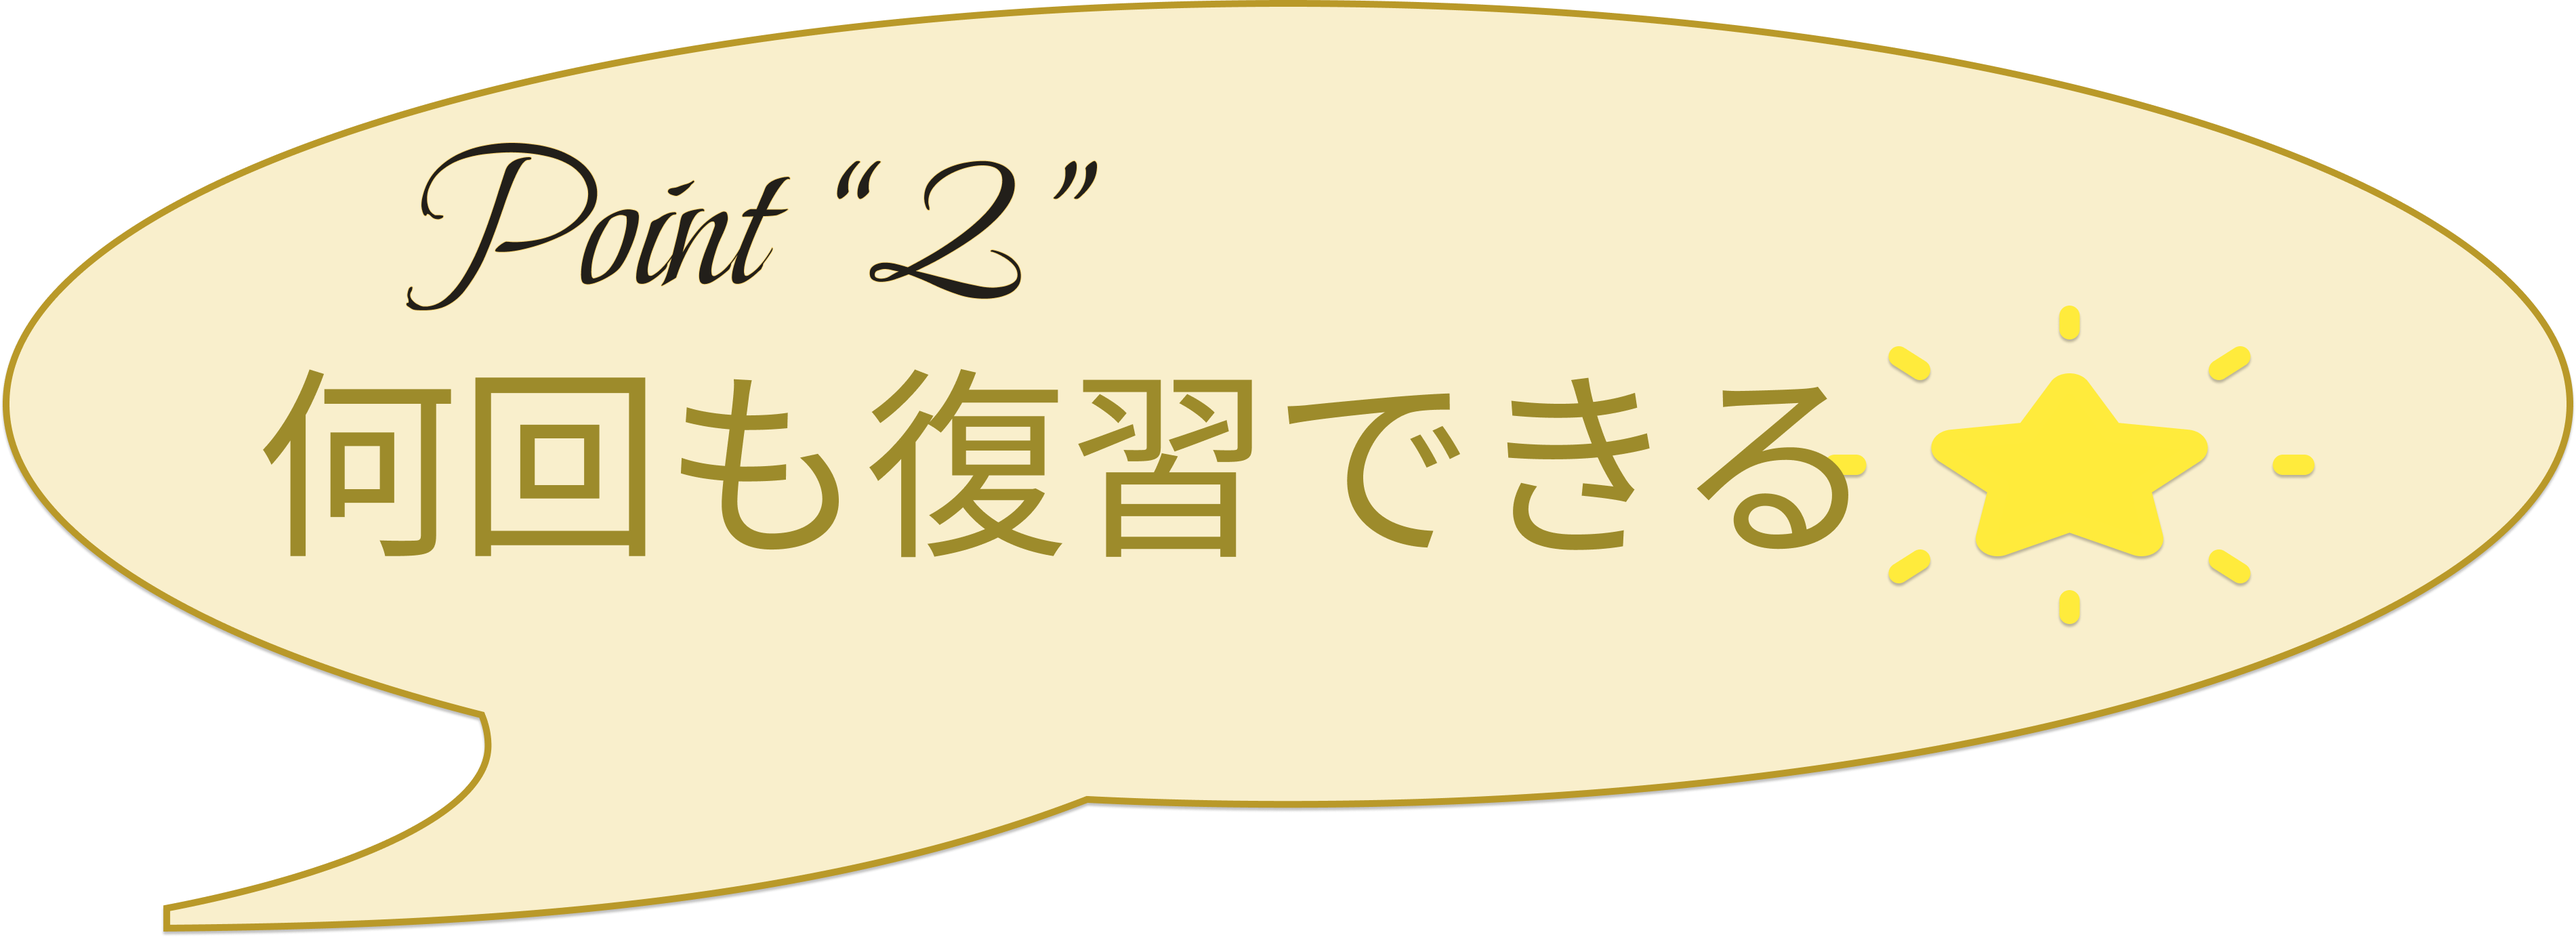
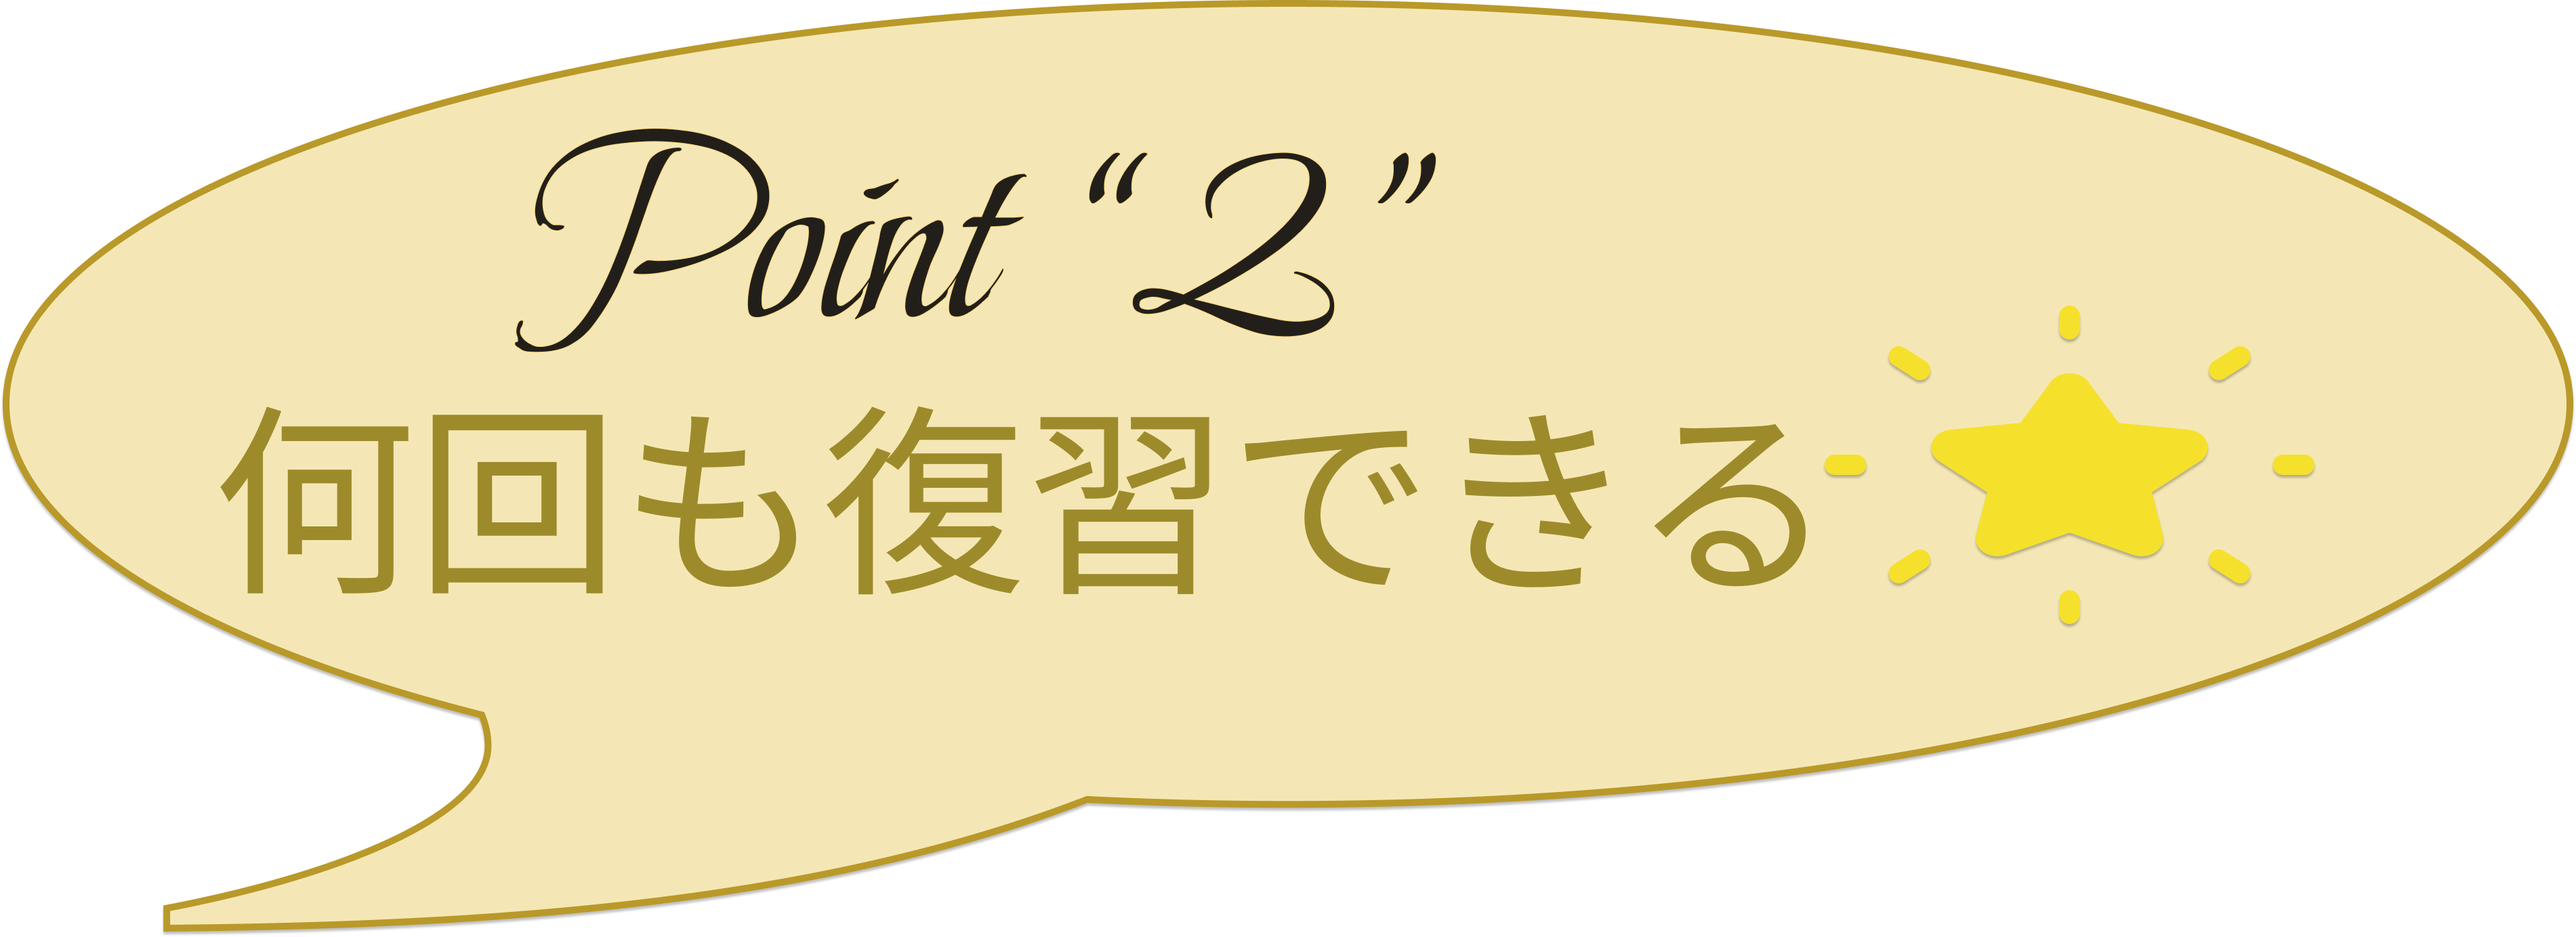
feat: web デザイン完成

diff --git a/index.html b/index.html
@@ -45,11 +45,12 @@
     <noscript><iframe src="https://www.googletagmanager.com/ns.html?id=GTM-57RW4WR" height="0" width="0"
             style="display:none;visibility:hidden"></iframe></noscript>
     <!-- End Google Tag Manager (noscript) -->
-    <section id="s01" class="back01" style="b" class="section">
+    <section id="s01" class="back01" class="section">
 
 
         <div id="main-visual">
-            <h2><span class="colored">言語</span> シリーズ<br><span class="text"></h2>
+            <h2><img src="img/t/language series (2).png" alt="言語シリーズ"><span class="text"></h2>
+                
             <div id="slider">
 
                 <ul id="slides">
@@ -72,45 +73,44 @@
                         alt="apple play"></a></p>
         </div>
     </section>
-    <section id="s01"  class="back02" >
+    <section id="s01" class="back02">
         <div id="main-visual">
-            <h2><span class="colored">Life</span> シリーズ<br><span class="text"></h2>
-            
+            <h2><img src="img/t/Life Hack.png" alt="言語シリーズ"><span class="text"></h2>
+
             <div class="display-app">
-               <h3>LifeHack</h3>
-               <p class="icn" ><img src="img/lifehack/appicon.png" alt="icon"></p>
-               <p class="lead">タスク、日記、読書メモを管理しカレンダーやグラフで振り返ろう！</p>
+                <p class="icn"><img src="img/lifehack/appicon.png" alt="icon"></p>
+                <p class="lead">タスク、日記、読書メモを管理しカレンダーやグラフで振り返ろう！</p>
             </div>
             <div id="slider">
                 <ul id="slides2">
-                    <li><img src="img/hack2/1.png" alt="image01" ></li>
+                    <li><img src="img/hack2/1.png" alt="image01"></li>
                     <li><img src="img/hack2/2.png" alt="image02"></li>
                     <li><img src="img/hack2/3.png" alt="image03"></li>
                     <li><img src="img/hack2/4.png" alt="image03"></li>
                 </ul>
             </div>
             <ol>
-                <li id="b01"><img src="img/baloon_01.png" alt="Point1 見た目がかわいい"></li>
-                <li id="b02"><img src="img/a.png" alt="Point2 毎日使える!"></li>
-                <li id="b03"><img src="img/baloon_03.png" alt="Point3 使い方は自由!"></li>
-                <li id="b04"><img src="img/baloon_04.png" alt="Point4 どれでも無料!"></li>
+                <li id="b01"><img src="img/fukidasi/point2_1.png" alt="Point1 見た目がかわいい"></li>
+                <li id="b02"><img src="img/fukidasi/point2_2.png" alt="Point2 毎日使える!"></li>
+                <li id="b03"><img src="img/fukidasi/point2_3.png" alt="Point3 使い方は自由!"></li>
+                <li id="b04"><img src="img/fukidasi/point2_4.png" alt="Point4 どれでも無料!"></li>
             </ol>
         </div>
-         <div id="btn-download" > 
-        <p class="btn btn-download"><a href="https://goo.gl/OwwrzV" target="_blank"><img src="img/common/apple.svg"
-                    alt="apple play"></a></p>
-    </div>
+        <div id="btn-download">
+            <p class="appicon btn-download"><a href="https://goo.gl/OwwrzV" target="_blank"><img src="img/common/apple.svg"
+                        alt="apple play"></a></p>
+        </div>
     </section>
-   
 
-   <section id="s01" class="back03" >
+
+    <section id="s01" class="back03">
         <div id="main-visual">
-            <h2><span class="colored">Life</span> シリーズ<br><span class="text"></h2>
-            
+            <h2><img src="img/t/Life Mind.png" alt="言語シリーズ"><span class="text"></h2>
+
+
             <div class="display-app">
-               <h3>LifeMind</h3>
-               <p class="icn" ><img src="img/lifemind/appicon.png" alt="icon"></p>
-               <p class="lead">タスク、日記、読書メモを管理しカレンダーやグラフで振り返ろう！</p>
+                <p class="icn"><img src="img/lifemind/appicon.png" alt="icon"></p>
+                <p class="lead">タスク、日記、読書メモを管理しカレンダーやグラフで振り返ろう！</p>
             </div>
             <div id="slider">
                 <ul id="slides3">
@@ -121,21 +121,21 @@
                 </ul>
             </div>
             <ol>
-                <li id="b01"><img src="img/baloon_01.png" alt="Point1 見た目がかわいい"></li>
-                <li id="b02"><img src="img/a.png" alt="Point2 毎日使える!"></li>
-                <li id="b03"><img src="img/baloon_03.png" alt="Point3 使い方は自由!"></li>
-                <li id="b04"><img src="img/baloon_04.png" alt="Point4 どれでも無料!"></li>
+                <li id="b01"><img src="img/fukidasi/point3_1.png" alt="Point1 見た目がかわいい"></li>
+                <li id="b02"><img src="img/fukidasi/point3_2.png" alt="Point2 毎日使える!"></li>
+                <li id="b03"><img src="img/fukidasi/point3_3.png" alt="Point3 使い方は自由!"></li>
+                <li id="b04"><img src="img/fukidasi/point3_4.png" alt="Point4 どれでも無料!"></li>
             </ol>
         </div>
-         <div id="btn-download" > 
-        <p class="btn btn-download"><a href="https://goo.gl/OwwrzV" target="_blank"><img src="img/common/apple.svg"
-                    alt="apple play"></a></p>
-    </div>
+        <div id="btn-download">
+            <p class="appicon btn btn-download"><a href="#" target="_blank"><img src="img/common/apple.svg"
+                        alt="apple play"></a></p>
+        </div>
     </section>
-   
 
 
-    <footer>
+
+    <footer style="text-align: center;">
         <a href="/privacypolicy/" target="_blank" style="color:#F7505A;">プライバシーポリシー</a>
         <a href="/terms/" target="_blank" style="color:#F7505A;">利用規約</a></small>
     </footer>

diff --git a/style.css b/style.css
@@ -595,7 +595,7 @@ h2 .text {
 }
 
 #slider {
-  background: url(img/background/d.png) 0 0 no-repeat;
+  background: url(img/background/de.png) 0 0 no-repeat;
   background-size: contain;
 }
 #slider li {
@@ -698,7 +698,7 @@ footer small {
 }
 #s01 #main-visual {
   width: 757px;
-  height: 767px;
+  height: 739px;
   z-index: 10;
   margin: 0 auto;
   position: relative;
@@ -708,7 +708,6 @@ footer small {
   flex-direction: column;
   align-items: center;
   justify-content: center;
-  margin-top: 45px;
 }
 
 #s01 #main-visual h1,
@@ -737,7 +736,7 @@ footer small {
   height: 466px;
 }
 #s01 #main-visual ol #b01 {
-  left: 3px;
+  left: -54px;
   top: 173px;
   width: 222px;
 }
@@ -759,20 +758,20 @@ footer small {
   width: 125opx;
 }
 .back01 {
-  background: url(img/background/back_01.png);
-  height: 767px;
+  background: url(img/background/back_04.png);
+  height: 864px;
 
   z-index: 10;
 }
 
 .back02 {
-  background: url(img/background/back_10.png);
+  background: url(img/background/back_2.png);
   height: 1000px;
   z-index: 10;
 }
 
 .back03 {
-  background: url(img/background/back_05.png);
+  background: url(img/background/back_03.png);
   height: 1000px;
   z-index: 10;
 }
@@ -821,9 +820,8 @@ footer small {
 h2 {
   text-align: center;
   line-height: 0.6;
-  padding-top: 70px;
-  font-family: Arial, "Hiragino Kaku Gothic Pro", Meiryo, sans-serif;
-  font-size: 60px;
+  padding-top: 30px;
+  font-size: 30px;
   color: #524640;
 }
 h2 .colored {
@@ -831,6 +829,11 @@ h2 .colored {
 }
 h2 .text {
   font-size: 20px;
+}
+.lead {
+  font-size: 24px; 
+  margin-top: 20px; 
+  margin-bottom: 20px; 
 }
 
 #s02 {
@@ -874,6 +877,10 @@ h2 .text {
   position: absolute;
   left: 70%;
   top: 100px;
+}
+
+.appicon img {
+  width: 180px;
 }
 
 #s03 {
